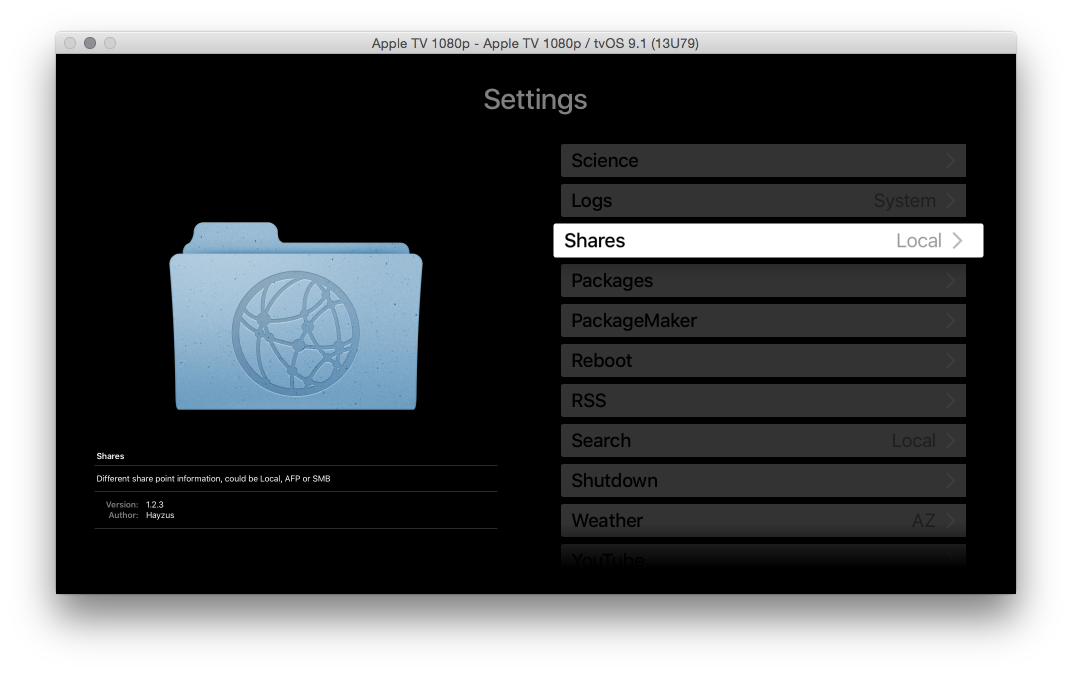
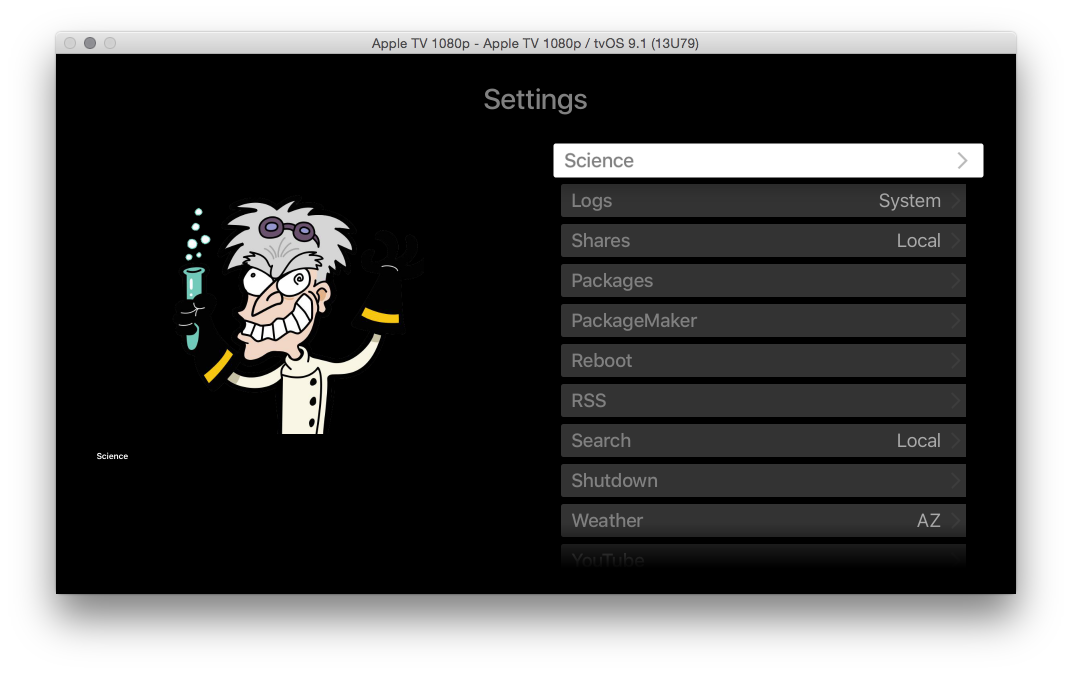
works better with black background color changing UITableViewCell text colors

diff --git a/tvOSSettings/SettingsViewController.m b/tvOSSettings/SettingsViewController.m
@@ -19,6 +19,7 @@
 
 - (id)initWithStyle:(UITableViewCellStyle)style reuseIdentifier:(NSString *)reuseIdentifier
 {
+
     unfocusedBackgroundColor = [UIColor colorWithWhite:1 alpha:0.2];
     self = [super initWithStyle:UITableViewCellStyleValue1 reuseIdentifier:reuseIdentifier];
     self.contentView.backgroundColor = unfocusedBackgroundColor;
@@ -31,7 +32,8 @@
 {
     [super layoutSubviews];
     self.accessoryView.backgroundColor = unfocusedBackgroundColor;
-    
+    //NSString *recursiveDesc = [self performSelector:@selector(recursiveDescription)];
+    //NSLog(@"%@", recursiveDesc);
 
 }
 
@@ -207,6 +209,7 @@
 {
     [super viewWillAppear:animated];
     self.titleView.text = _backingTitle;
+    //[self.tableView printRecursiveDescription];
     
 }
 
@@ -442,7 +445,11 @@
     cell.selectionStyle = UITableViewCellSelectionStyleNone;
     cell.textLabel.text = currentAsset.name;
     cell.detailTextLabel.text = currentAsset.detailString;
-    
+    if (self.view.backgroundColor == [UIColor blackColor])
+    {
+        cell.textLabel.textColor = [UIColor grayColor];
+        cell.detailTextLabel.textColor = [UIColor lightGrayColor];
+    }
     /*
      
      This is a terrible hack, but without doing this I couldn't figure out a way to make the built in accessory
@@ -453,13 +460,18 @@
      
      */
     
-    UIView *accessoryView = [[UIView alloc] initWithFrame:CGRectMake(0, 0, 60, 66)];
-    UIButton *accessoryButton = [[UIButton alloc] initWithFrame:CGRectMake(20, 16.5, 20, 33)];
-    [accessoryButton setImage:[UIImage imageNamed:@"image"] forState:UIControlStateNormal];
-    [accessoryView addSubview:accessoryButton];
+    UIView *accessoryView = [[UIView alloc] initWithFrame:CGRectMake(0, 0, 50, 66)];
+    accessoryView.opaque = false;
+    accessoryView.backgroundColor = [UIColor clearColor];
+    UIImageView *accessoryImage = [[UIImageView alloc] initWithFrame:CGRectMake(20, 16.5, 20, 33)];
+    //UIButton *accessoryButton = [[UIButton alloc] initWithFrame:CGRectMake(20, 16.5, 20, 33)];
+    accessoryImage.backgroundColor = [UIColor clearColor];
+    accessoryImage.image = [UIImage imageNamed:@"image"];
+    //[accessoryButton setImage:[UIImage imageNamed:@"image"] forState:UIControlStateNormal];
+    [accessoryView addSubview:accessoryImage];
     cell.accessoryView = accessoryView;
     // cell.accessoryType = UITableViewCellAccessoryDisclosureIndicator;
-    
+    //cell.printRecursiveDescription;
     return cell;
 }
 

diff --git a/tvOSSettings/AppDelegate.m b/tvOSSettings/AppDelegate.m
@@ -17,6 +17,7 @@
 
 @implementation AppDelegate
 
+
 - (NSArray *)items
 {
     NSDictionary *drScience = @{@"name": @"Science", @"coverArt": @"https://dl.dropboxusercontent.com/u/16129573/dr_science.png", @"detail": @"", @"detailOptions": @[]};
@@ -54,7 +55,7 @@
      
      */
     
-    viewCon.view.backgroundColor = [UIColor blackColor];
+    //viewCon.view.backgroundColor = [UIColor blackColor];
     //viewCon.titleColor = [UIColor colorFromHex:@"DC1916"];
     
     navController.viewControllers = @[viewCon];
